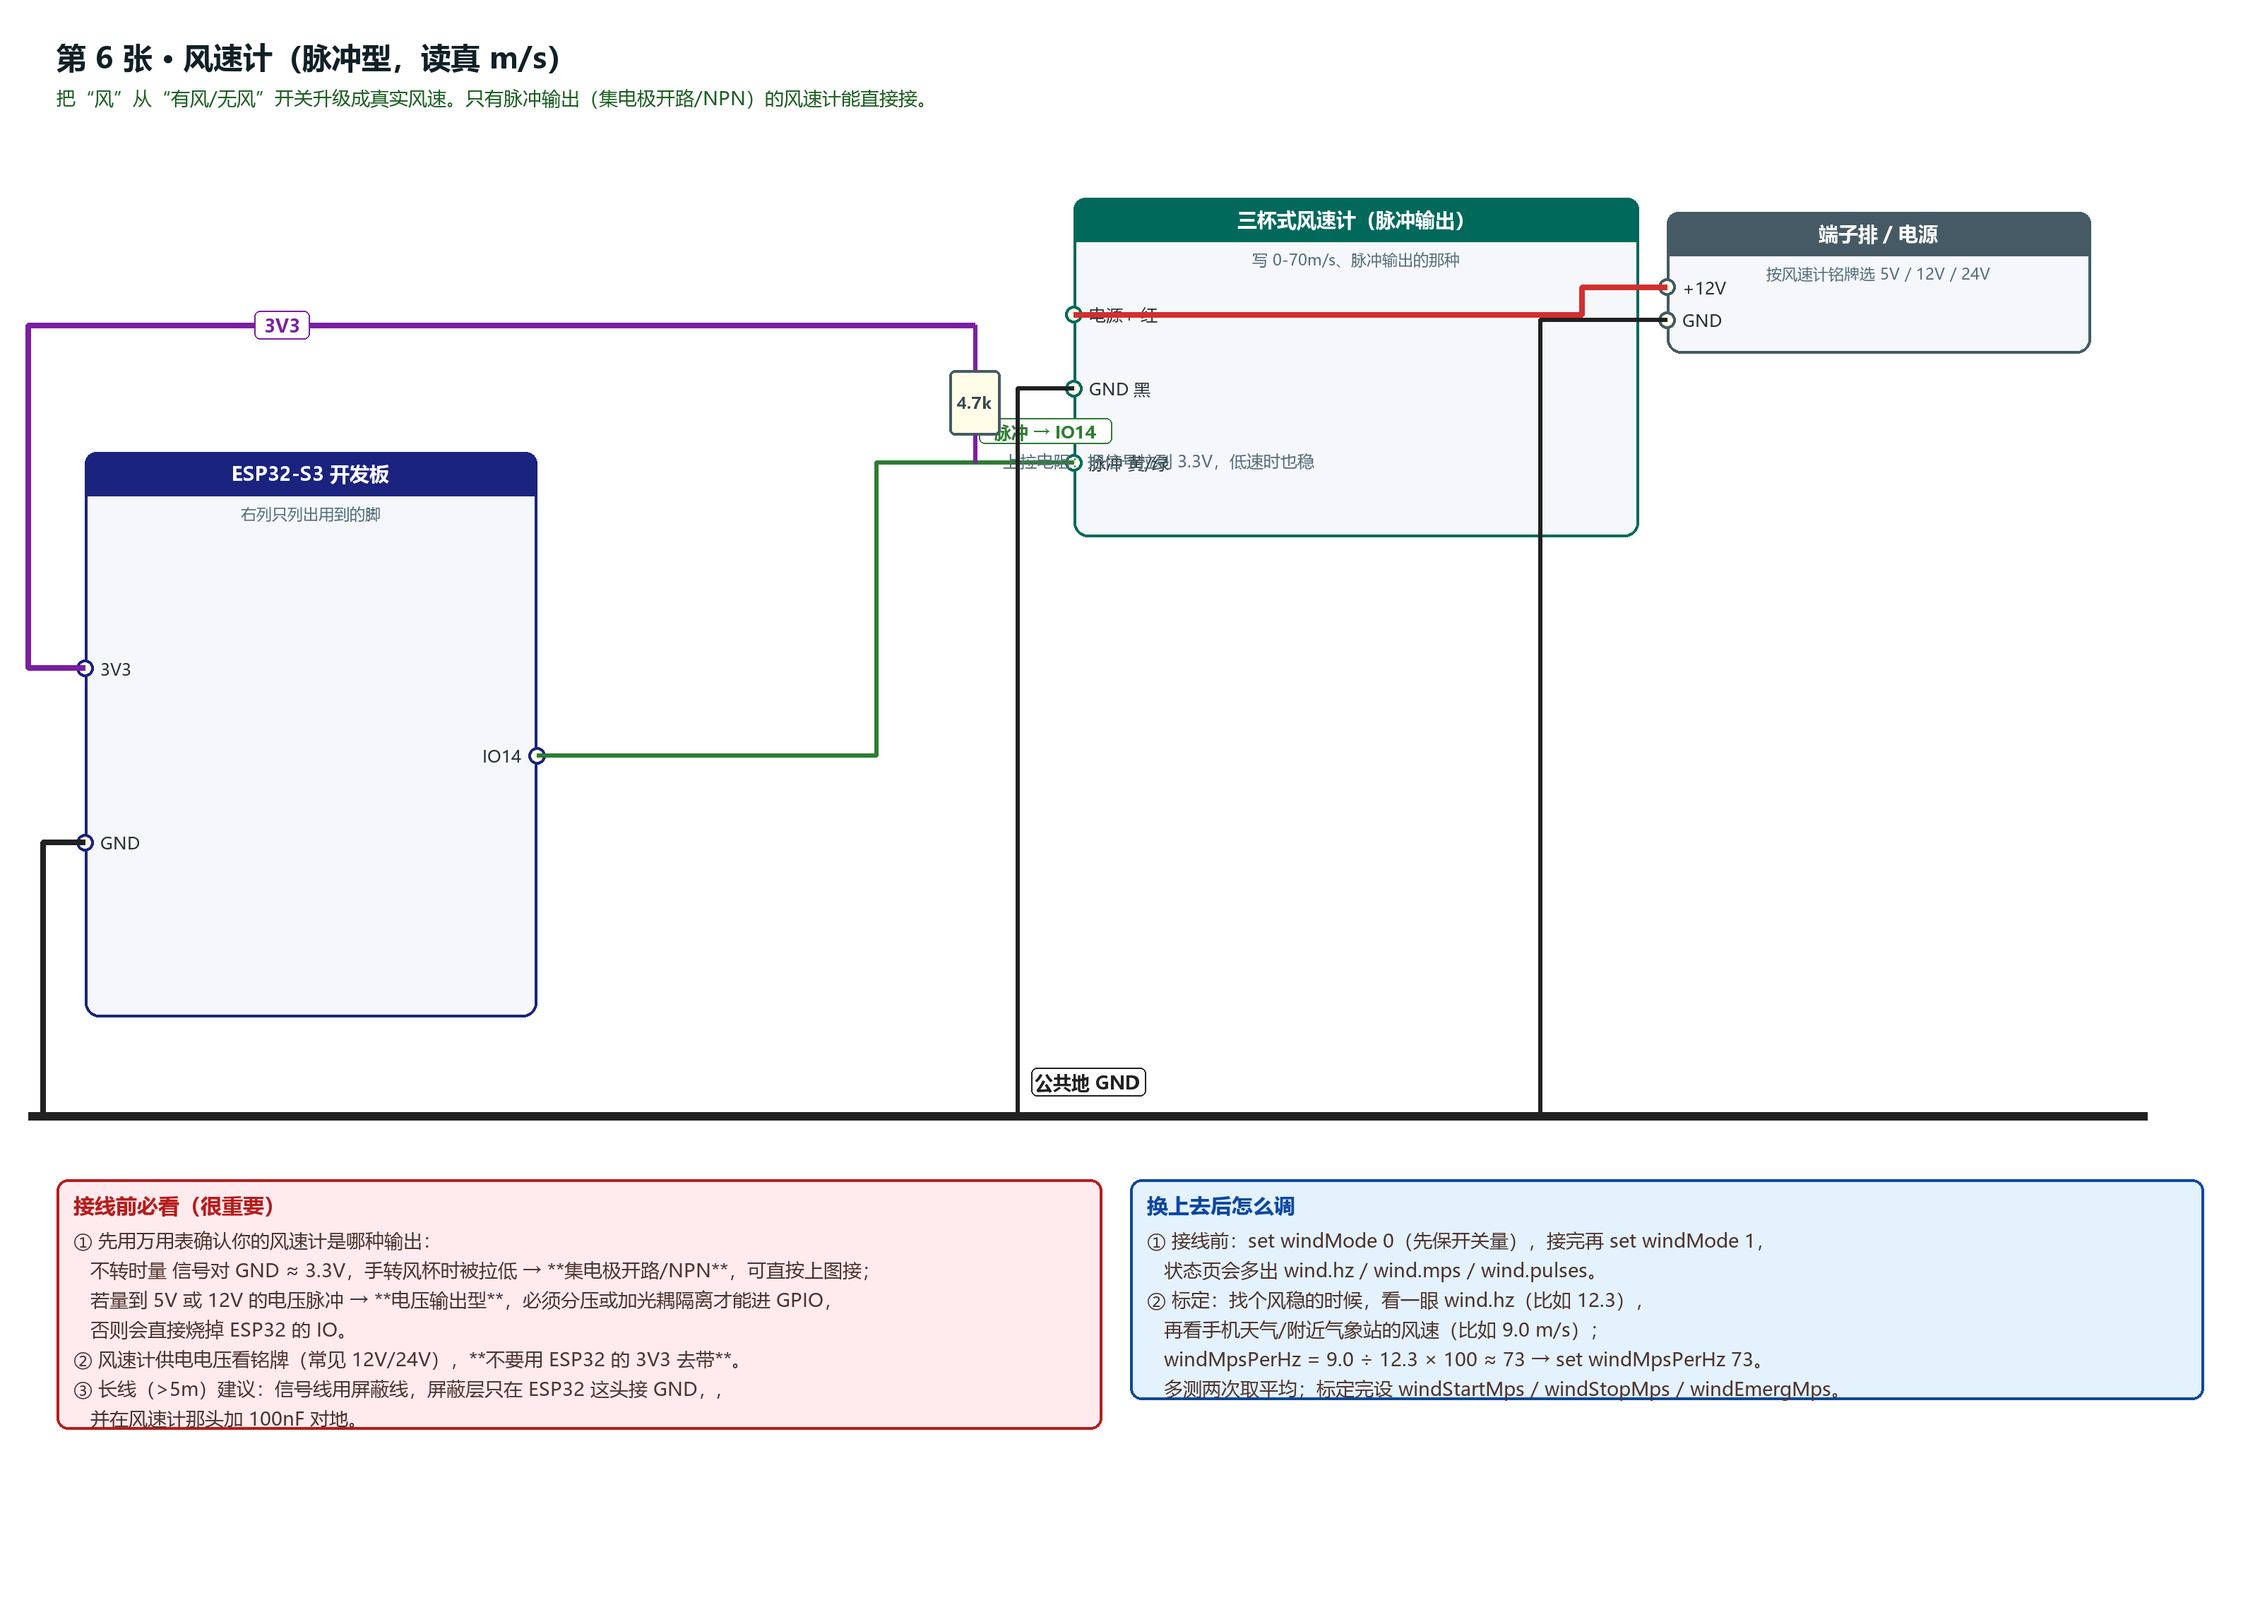
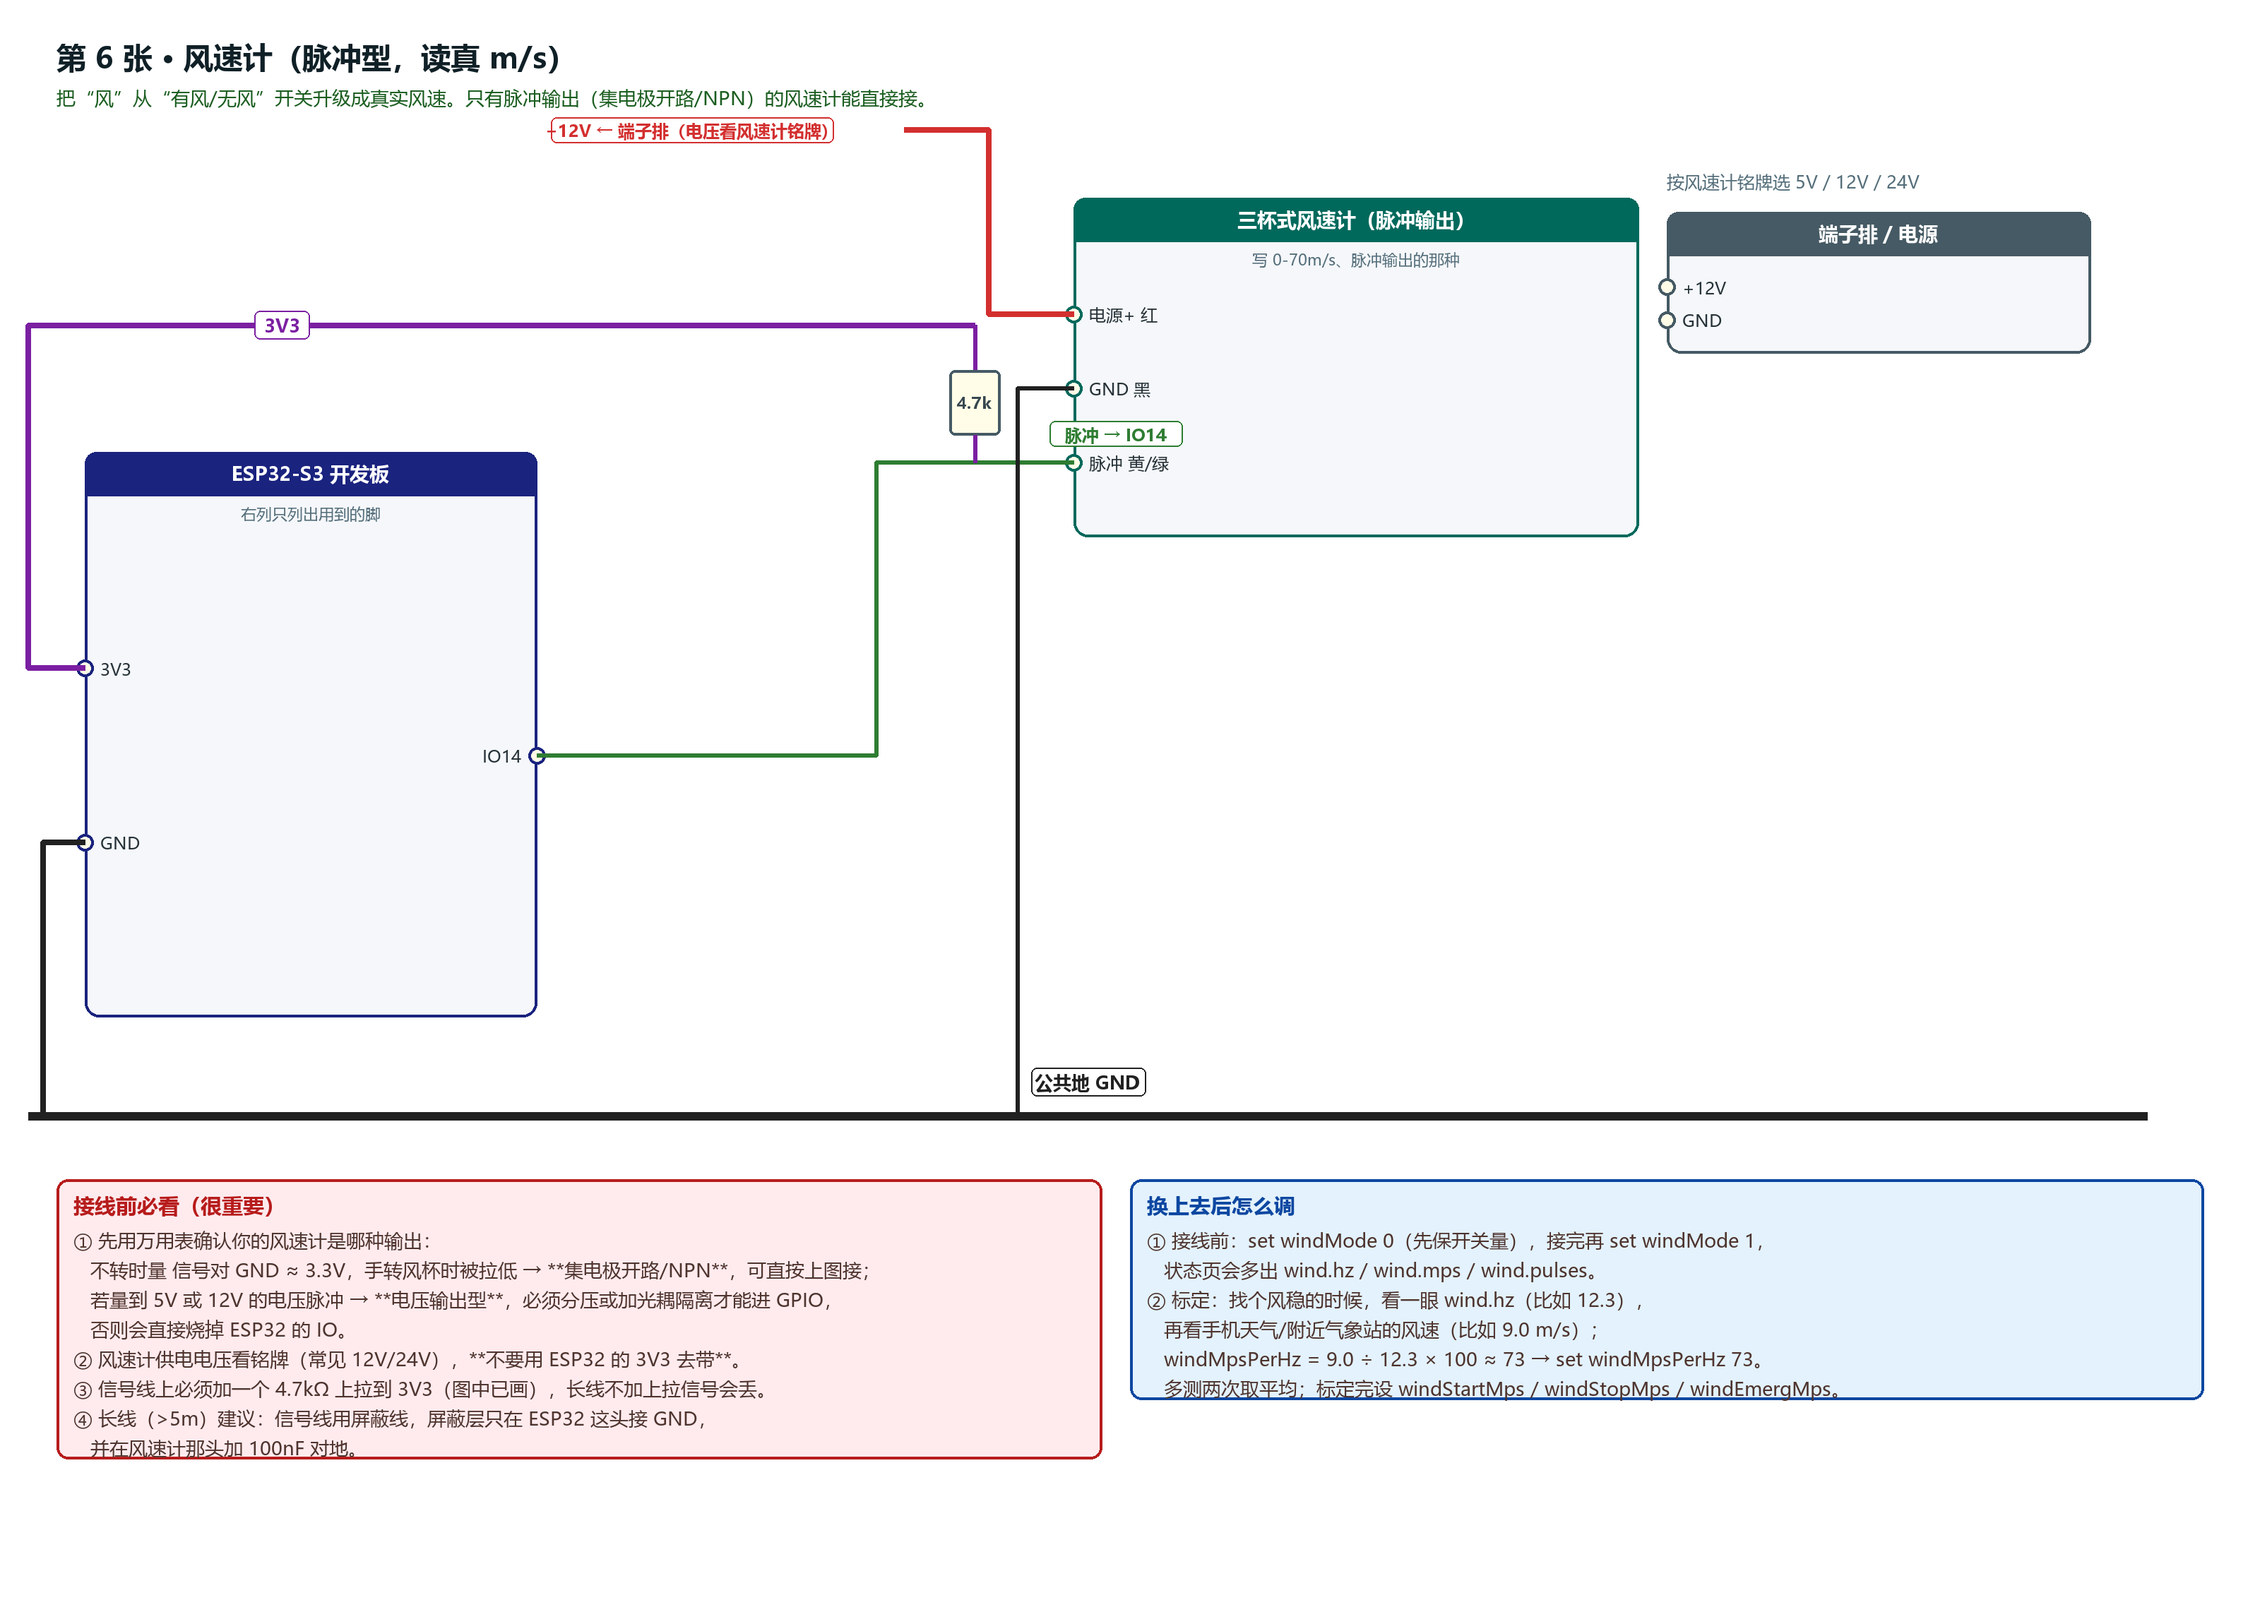
apks: 更新 tools/sunnet, tools/tea-strategist
Auto-synced by apk-github-sync at 2026-10-18 23:31:50

- apks/README.md
- apks/index.json
- apks/tools/sunnet/meta.json
- apks/tools/sunnet/src/tools/make_wiring_diagram.py
- "apks/tools/sunnet/src/\346\216\245\347\272\277\346\211\213\345\206\214/6-\351\243\216\351\200\237\350\256\241(\350\204\211\345\206\262).png"
- "apks/tools/sunnet/src/\346\216\245\347\272\277\346\211\213\345\206\214/6-\351\243\216\351\200\237\350\256\241(\350\204\211\345\206\262).svg"
- "apks/tools/sunnet/src/\346\216\245\347\272\277\346\211\213\345\206\214/\346\216\245\347\272\277\346\211\213\345\206\214.md"
- "apks/tools/sunnet/src/\351\207\207\350\264\255\346\270\205\345\215\225.md"
- apks/tools/tea-strategist/meta.json
- "apks/tools/tea-strategist/src/\346\210\252\345\233\276/01-\351\246\226\351\241\265.png"
- "apks/tools/tea-strategist/src/\346\210\252\345\233\276/02-\346\203\205\346\212\245.png"
- "apks/tools/tea-strategist/src/\346\210\252\345\233\276/03-\345\217\260\350\264\246\347\251\272.png"
- "apks/tools/tea-strategist/src/\346\210\252\345\233\276/04-\345\206\263\347\255\226.png"
- "apks/tools/tea-strategist/src/\346\210\252\345\233\276/05-\345\205\265\346\263\225.png"
- "apks/tools/tea-strategist/src/\346\210\252\345\233\276/06-\346\226\260\345\242\236\345\274\271\345\261\202.png"

diff --git a/apks/tools/sunnet/src/tools/make_wiring_diagram.py b/apks/tools/sunnet/src/tools/make_wiring_diagram.py
@@ -582,14 +582,17 @@ def fig_wind_pulse(out):
     wg = ws["l"][1][0]
     wp = ws["l"][2][0]
 
-    pw = f.module(1180, 150, 300, 100, "端子排 / 电源", {"l": ["+12V", "GND"]}, color="#455a64",
-                  sub="按风速计铭牌选 5V / 12V / 24V")
+    f.text(1180, 120, "按风速计铭牌选 5V / 12V / 24V", size=12.5, color="#546e7a")
+    pw = f.module(1180, 150, 300, 100, "端子排 / 电源", {"l": ["+12V", "GND"]}, color="#455a64")
     pv = pw["l"][0][0]
     pg = pw["l"][1][0]
+    # 风速计供电：从端子排来（电压看铭牌，常见 12V/24V）
+    f.wire([(wv[0], wv[1]), (700, wv[1]), (700, 92), (640, 92)], RED, width=4)
+    f.label(490, 92, "+12V ← 端子排（电压看风速计铭牌）", color=RED, size=12)
 
     # 脉冲信号 → IO14
     f.wire([(wp[0], wp[1]), (620, wp[1]), (620, io14[1]), (io14[0], io14[1])], GRN, width=3,
-           label="脉冲 → IO14", lx=740, ly=wp[1] - 22)
+           label="脉冲 → IO14", lx=790, ly=wp[1] - 20)
     # 3V3 上拉轨 + 4.7k 上拉电阻
     f.wire([(v3[0], v3[1]), (20, v3[1]), (20, 230), (690, 230)], PUR, width=4)
     f.label(200, 230, "3V3", color=PUR, size=13)
@@ -597,11 +600,8 @@ def fig_wind_pulse(out):
     f.rect(672, 262, 36, 46, fill="#fffde7", stroke="#455a64", width=2, r=4)
     f.text(690, 285, "4.7k", size=11.5, color="#37474f", anchor="cm", bold=True)
     f.wire([(690, 308), (690, wp[1])], PUR, width=3)
-    f.text(710, 318, "上拉电阻：把信号拉到 3.3V，低速时也稳", size=12, color="#546e7a")
-    # 电源
-    f.wire([(wv[0], wv[1]), (1120, wv[1]), (1120, pv[1]), (pv[0], pv[1])], RED, width=4)
+    # 地（ESP32 GND + 风速计 GND 都下到公共地）
     f.wire([(wg[0], wg[1]), (720, wg[1]), (720, 790)], BLK, width=3)
-    f.wire([(pg[0], pg[1]), (1090, pg[1]), (1090, 790)], BLK, width=3)
     f.wire([(eg[0], eg[1]), (30, eg[1]), (30, 790)], BLK, width=4)
     f.gnd_bus(20, 1520, 790, "公共地 GND")
 
@@ -611,7 +611,8 @@ def fig_wind_pulse(out):
         "   若量到 5V 或 12V 的电压脉冲 → **电压输出型**，必须分压或加光耦隔离才能进 GPIO，",
         "   否则会直接烧掉 ESP32 的 IO。",
         "② 风速计供电电压看铭牌（常见 12V/24V），**不要用 ESP32 的 3V3 去带**。",
-        "③ 长线（>5m）建议：信号线用屏蔽线，屏蔽层只在 ESP32 这头接 GND，,",
+        "③ 信号线上必须加一个 4.7kΩ 上拉到 3V3（图中已画），长线不加上拉信号会丢。",
+        "④ 长线（>5m）建议：信号线用屏蔽线，屏蔽层只在 ESP32 这头接 GND，",
         "   并在风速计那头加 100nF 对地。",
     ], title="接线前必看（很重要）", color="#b71c1c", fill="#ffebee")
 

diff --git a/apks/tools/sunnet/src/接线手册/接线手册.md b/apks/tools/sunnet/src/接线手册/接线手册.md
@@ -12,6 +12,7 @@
 > | `3-电机.png / .svg` | MOS 开关 + DRV8871 + 电机 | 第二步 |
 > | `4-安全链.png / .svg` | 限位 / 急停 / 手动自动 | 第三步 |
 > | `5-传感器与面板.png / .svg` | 光照 / 雨 / 风 / 电位器 / 按键 / 灯 | 第四步 |
+> | `6-风速计(脉冲).png / .svg` | 把“风”从开关量升级成真 m/s（可选） | 想按风速值收网时 |
 >
 > 图是由 `tools/make_wiring_diagram.py` 生成的，改了引脚表重跑一次就能更新。
 > 图上的引脚号和固件 `pcbsun-esp32s3/include/board.h`（`PCBSUN_SCATTER` 分支）一致，
@@ -169,6 +170,7 @@ IO6 ──1kΩ──> S8050 三极管 基极
 | **光敏电阻模块** | `VCC`→**3V3**，`GND`→GND，`AO`→`IO1`（`DO` 空着） |
 | **雨滴模块 YL-83** | `VCC`→**3V3**，`GND`→GND，`AO`→`IO2`（`DO` 空着） |
 | **风速开关** | 两线无极性：一线→`IO14`，另一线→GND |
+| **三杯式风速计（脉冲型，可选升级）** | 见下面 §5.1 + 图 6 |
 | **10k 多圈电位器** | 脚1→3V3，**脚2（中点）→`IO3`**，脚3→GND |
 | **按键 MODE** | 一脚→GND，另一脚→`IO21` |
 | **按键 CW（展开）** | 一脚→GND，另一脚→`IO38` |
@@ -184,6 +186,36 @@ IO6 ──1kΩ──> S8050 三极管 基极
   **带加热的雨雪传感器**，或者只在雨天才把探头装上。
 - 风速开关要装在**没有遮挡、也不会被网自己挡住**的地方。
 - 电位器装反只是"光越强越展开"变成反的，可以用 `set thUp / thDown` 改成绝对阈值兜底。
+
+### 5.1 可选升级：三杯式风速计（按真 m/s 收网）
+
+风速开关只能告诉你"有风/没风"。想按 **8 m/s 收网** 就得换三杯式**脉冲**风速计，
+接线见 **图 6**，要点就两条：
+
+| 风速计的线 | 接到 |
+|---|---|
+| `电源+`（红） | 端子排 `+12V`（**电压看铭牌**，常见 12V/24V，不要用 ESP32 的 3V3） |
+| `GND`（黑） | 公共地 |
+| `脉冲`（黄/绿） | `IO14`，**并加一个 4.7kΩ 上拉到 3V3** |
+
+⚠ **接之前先用万用表确认输出类型**：
+
+- 不转时量"信号对 GND"≈3.3V，用手转风杯时被拉低 → **集电极开路 / NPN** → 可以按上图直插；
+- 若量到 **5V 或 12V 的电压脉冲** → 必须先分压或加光耦隔离，**否则会烧掉 IO 口**。
+
+接好之后：
+
+```
+① set windMode 1                    # 切成脉冲模式（状态页会出现 wind.hz / wind.mps）
+② 看看 wind.hz（比如 12.3 Hz）
+③ 对照手机天气/附近气象站的风速（比如 9.0 m/s）
+④ windMpsPerHz = 9.0 ÷ 12.3 × 100 ≈ 73   →  set windMpsPerHz 73   （多测几次取平均）
+⑤ set windStartMps 80               # 8.0 m/s 收网
+  set windStopMps 50                # 5.0 m/s 解除（时间滞回之外的第二层硬件滞回）
+  set windEmergMps 120              # 12.0 m/s 紧急：不等确认时间，立即收网
+```
+
+（`windStartMps / windStopMps / windEmergMps` 的单位都是 **0.1 m/s**。）
 
 ---
 
@@ -319,7 +351,7 @@ pio run -e esp32s3-scatter -t uploadfs    # 烧网页（不做这步浏览器打
 
 | 想做的事 | 怎么改 |
 |---|---|
-| 想按 **m/s** 精确判风，而不是开关量 | 换三杯式脉冲风速计，固件要加脉冲计数（约 60~80 行），告诉我我加 |
+| ~~想按 **m/s** 精确判风~~ | ✅ **已做**：换三杯式脉冲风速计 + `set windMode 1`，见 §5.1 和图 6 |
 | 用 **220V 交流电机** | 把 DRV8871 换成"2 路 30A 继电器模块 + 交流接触器"，固件换成继电器输出实现；强弱电分开走线，加漏保 |
 | 户外长期运行 | 雨滴改加热型、加防雷器、限位/急停用屏蔽线、电箱升到 IP66 透明盖 |
 | 加电压监测 | 需要小电阻分压（本方案板子没有），属于改硬件 |

diff --git a/apks/tools/sunnet/src/采购清单.md b/apks/tools/sunnet/src/采购清单.md
@@ -67,7 +67,7 @@
 | 换什么 | 型号 / 搜索关键词 | 数量 | 单价 | 说明 |
 |---|---|---|---|---|
 | 雨改加热型 | 搜「雨雪传感器 带加热 开关量/模拟 12V」 | 1 | ¥50-90 | YL-83 那种裸板子在外面淋几天就氧化了 |
-| 风改三杯式 | 搜「三杯式风速传感器 0-5V / 脉冲 485」 | 1 | ¥70-140 | 需加分压电阻 + 固件改成脉冲计数（我可以改） |
+| 风改三杯式 | 搜「三杯式风速传感器 **脉冲输出** 0-70m/s 集电极开路」 | 1 | ¥70-140 | ✅ 固件已支持：`set windMode 1` 直接读 m/s（见 [接线手册](接线手册/接线手册.md) §5.1 / 图 6）。**买脉冲输出（NPN）型**，不要买 0-5V/4-20mA/RS485 型；信号线要加 4.7k 上拉到 3V3 |
 | 加电流检测 | 搜「ACS712 20A 电流传感器模块」或「INA226 模块」 | 1 | ¥8-30 | 对应板上 U7 INA282；ACS712 直接进 ADC 最简单 |
 | 限位升级 | 搜「TZ-8104 行程开关 工业限位」 | 2 | ¥8-12 | 机械寿命比微动开关长得多 |
 | 电源升级 | 搜「12V 5A 防水电源 IP67」 | 1 | ¥45-70 | 电机启动涌流大，3A 会打嗝 |

diff --git a/apks/README.md b/apks/README.md
@@ -1,7 +1,7 @@
 # Pi 开发的 APK 软件包
 
 本目录由 [`apk-github-sync`](../skills/apk-github-sync/) 自动从本机镜像同步。
-最后同步：**2026-10-18 23:04:32**　|　共 **14** 个应用　|　APK 合计 **47.1 MB**
+最后同步：**2026-10-18 23:31:46**　|　共 **14** 个应用　|　APK 合计 **47.1 MB**
 
 每个应用一个子目录，里面有编译好的 APK 和对应的源代码：
 
